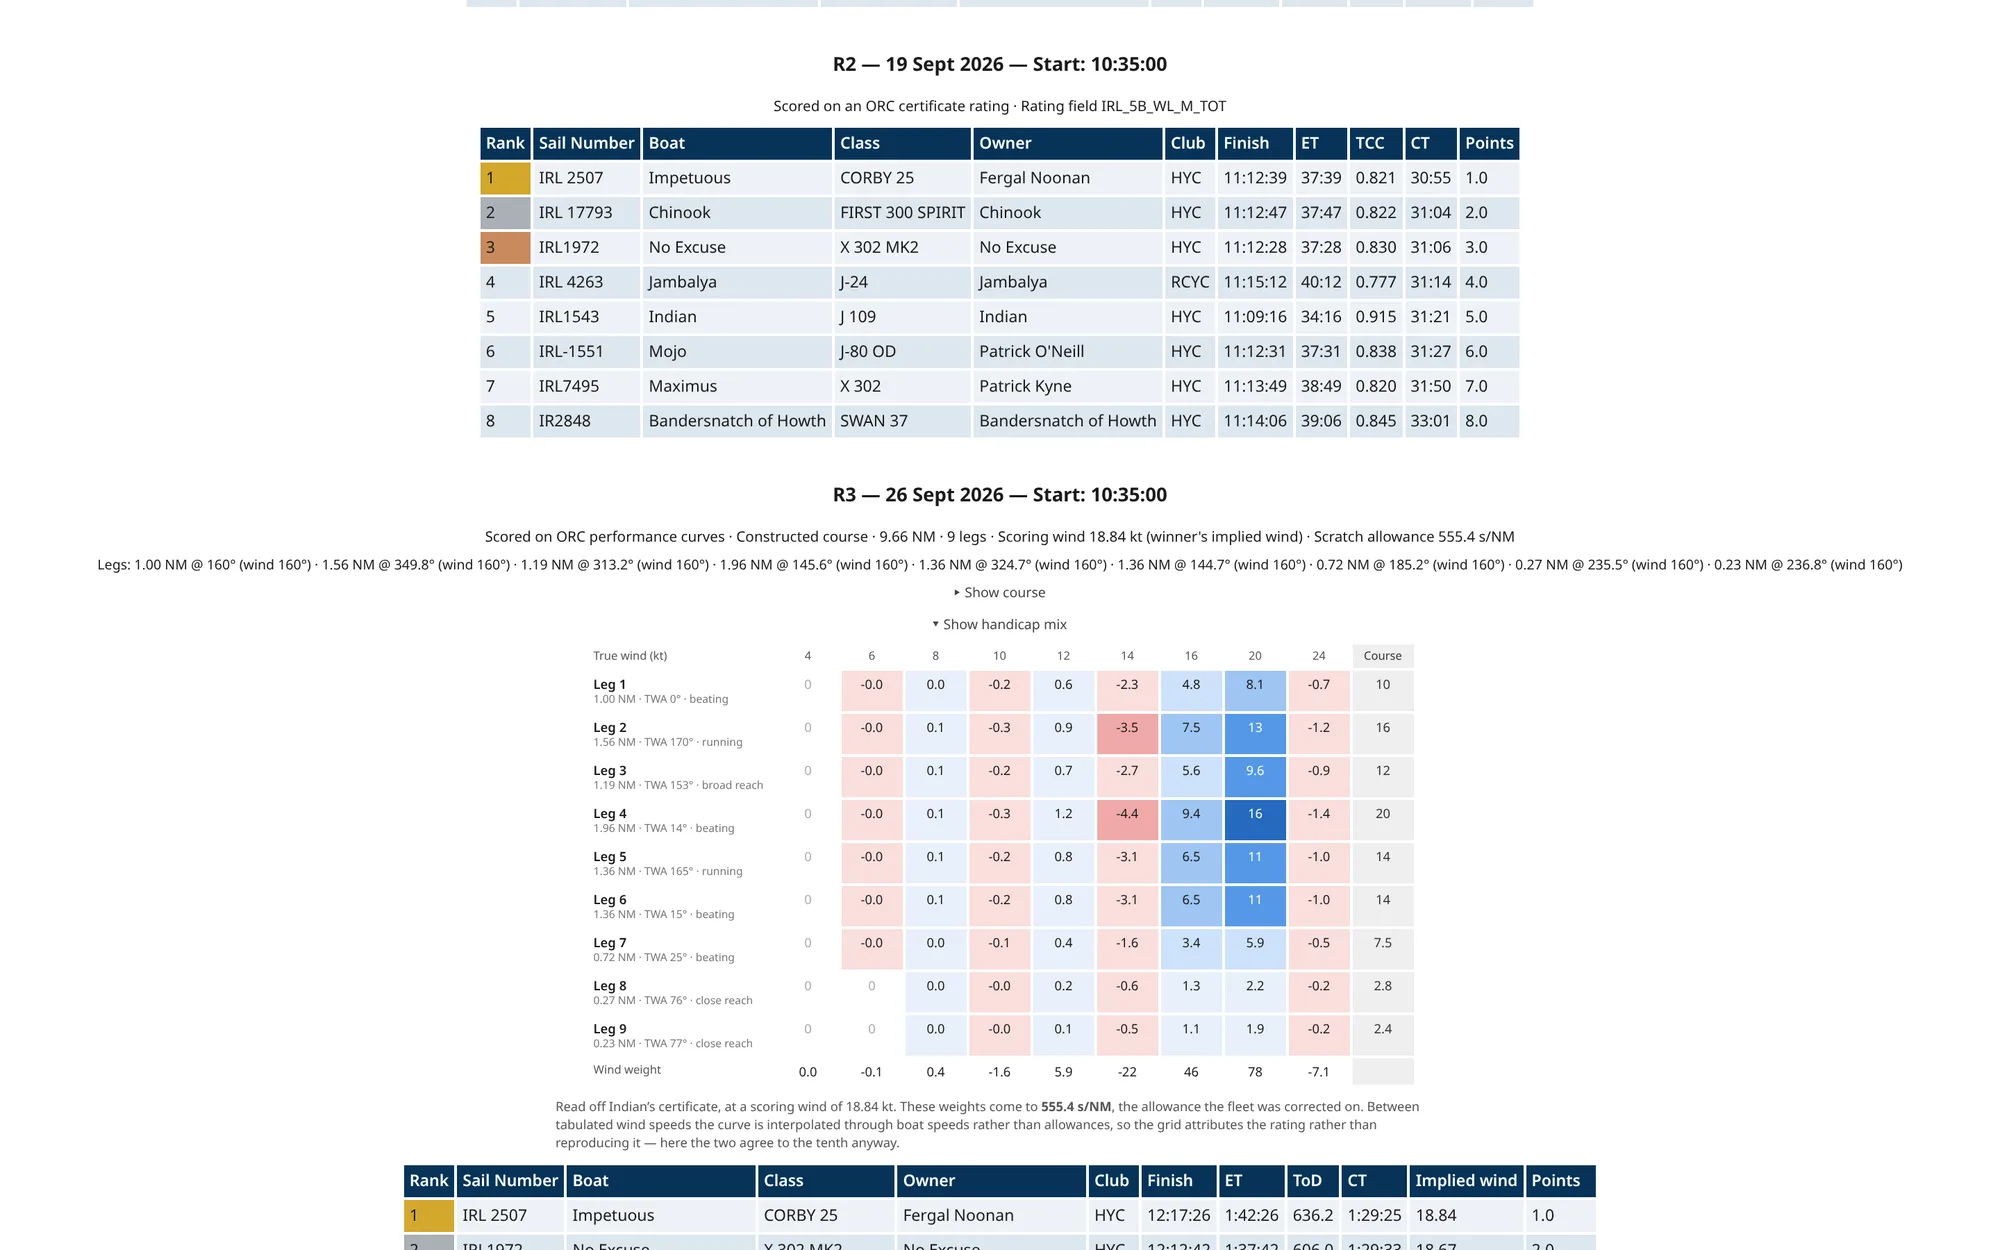
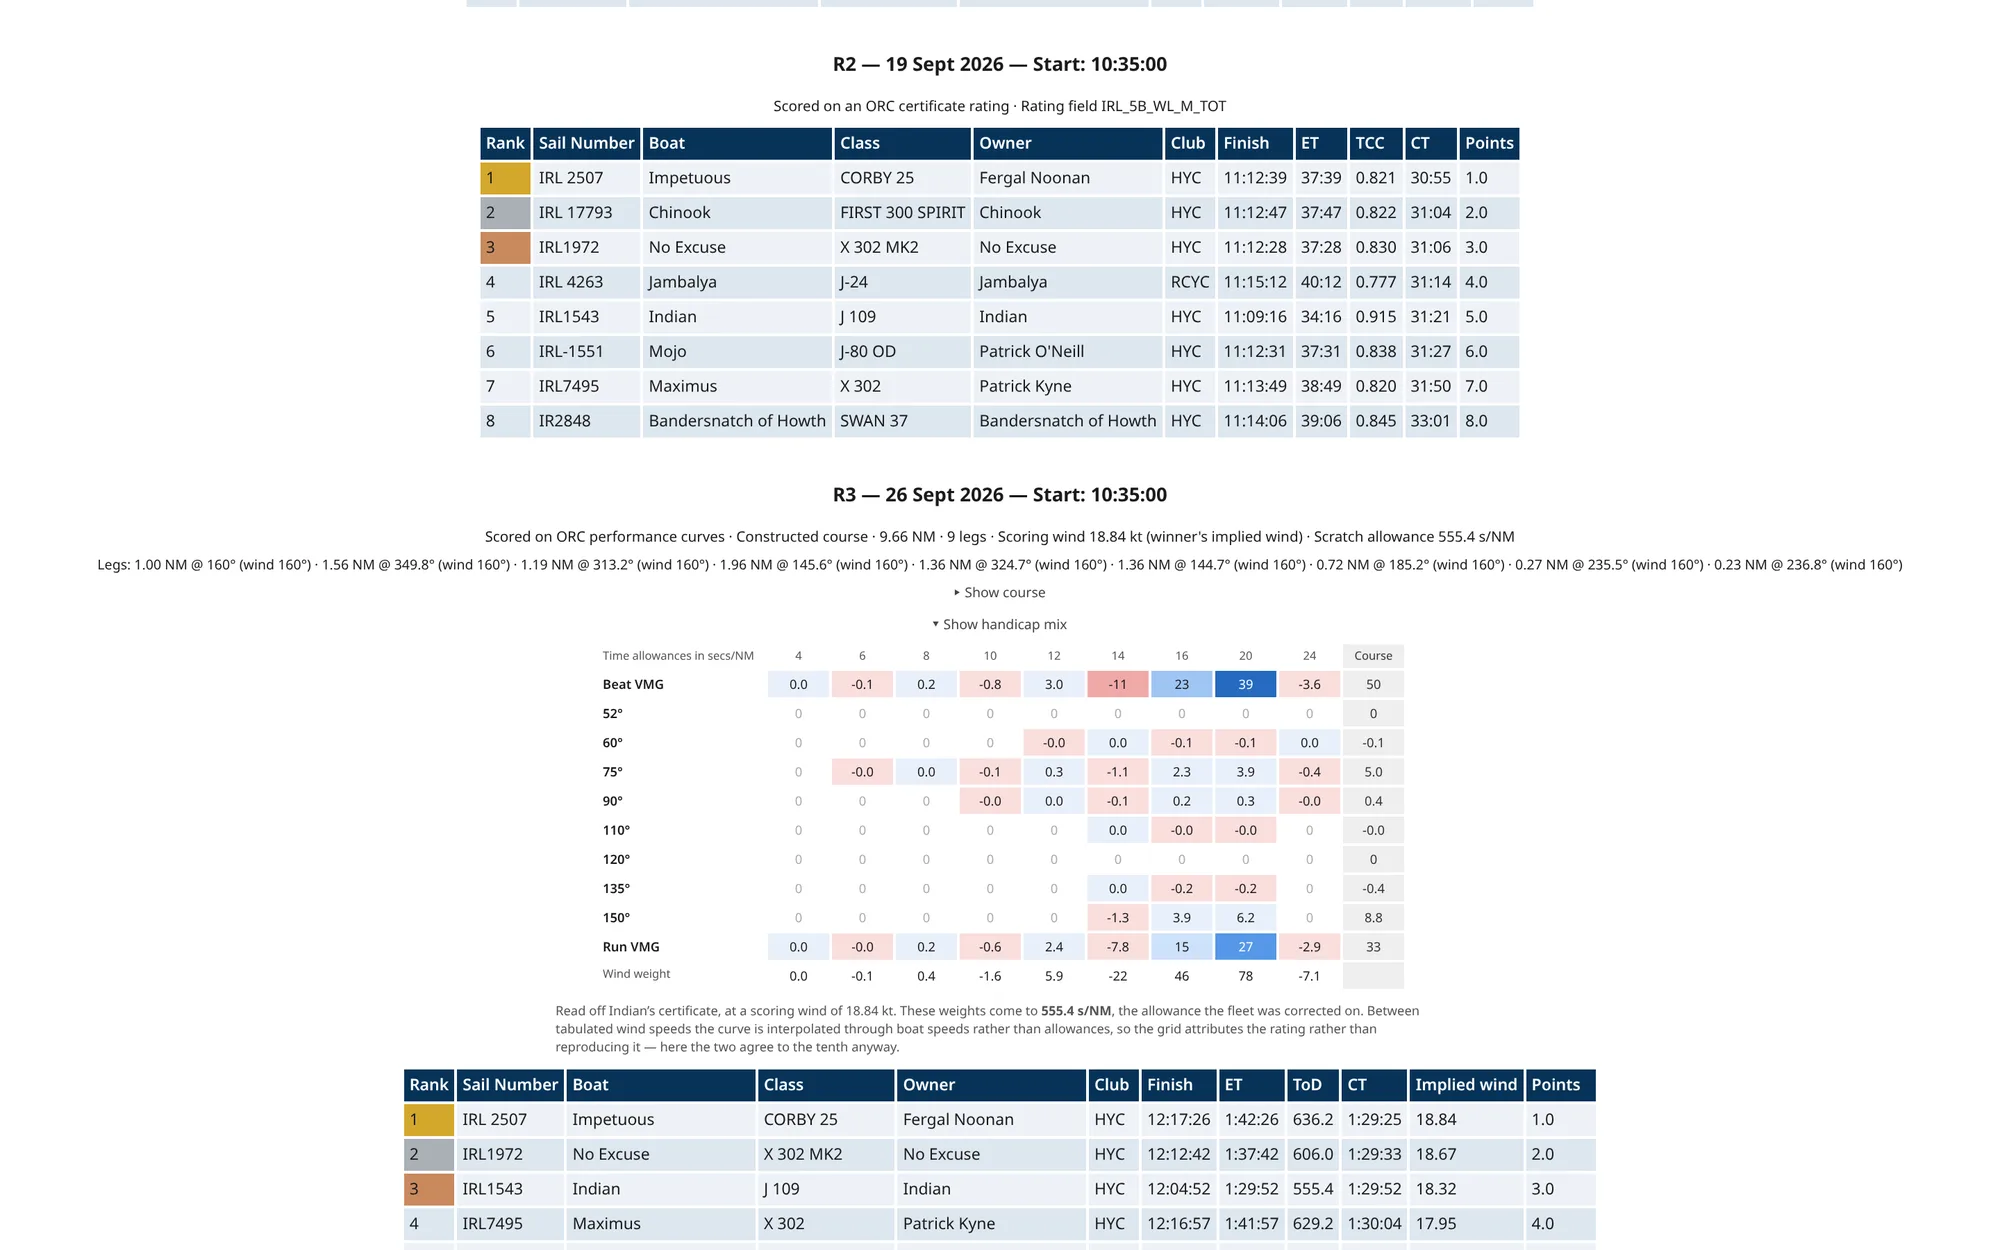
feat(features): the handicap mix is the certificate's own table
The grid's rows are now the certificate's — Beat VMG through Run VMG — not
the course's legs, so a competitor reads it against the table they hold.
Copy and shot follow.

Changed region(s): [[0.186, 0.4992, 0.806, 1.0]]

diff --git a/app/features/page.tsx b/app/features/page.tsx
@@ -456,11 +456,11 @@ const groups: Group[] = [
       {
         id: "orc-handicap-mix",
         title: "Where the handicap came from",
-        body: "An ORC certificate is a matrix — an allowance in seconds per mile at every wind speed and every angle to the wind — and every way of scoring it is a weighted mix of those cells. A published performance-curve race folds the mix away beside the course: the wind speeds across the top, the legs actually sailed down the side, and in each cell the share of the rating it carried. A competitor can see that half their windward/leeward rating was the beat and half the run, or which leg of Sunday's course did the damage. No other scoring tool publishes it, because no other scoring tool scores on curves at all.",
+        body: "An ORC certificate is a matrix — an allowance in seconds per mile at every wind speed and every angle to the wind — and every way of scoring it is a weighted mix of those cells. A published performance-curve race folds the mix away beside the course: the certificate's own table, laid out exactly as it is printed, with the share of the rating in each cell instead of the allowance. A competitor holding their certificate can see that half their windward/leeward rating was beat VMG and half run VMG, or which corner of the matrix Sunday's course actually drew on. No other scoring tool publishes it, because no other scoring tool scores on curves at all.",
         note: ON_REQUEST_NOTE,
         shot: {
           src: "/screenshots/features/orc-handicap-mix.webp",
-          alt: "The handicap mix opened under a published race: the certificate's wind speeds across the top, one row per leg, and the share of the rating in each cell",
+          alt: "The handicap mix opened under a published race: the certificate's allowance table with the share of the rating in each cell",
         },
       },
       {
